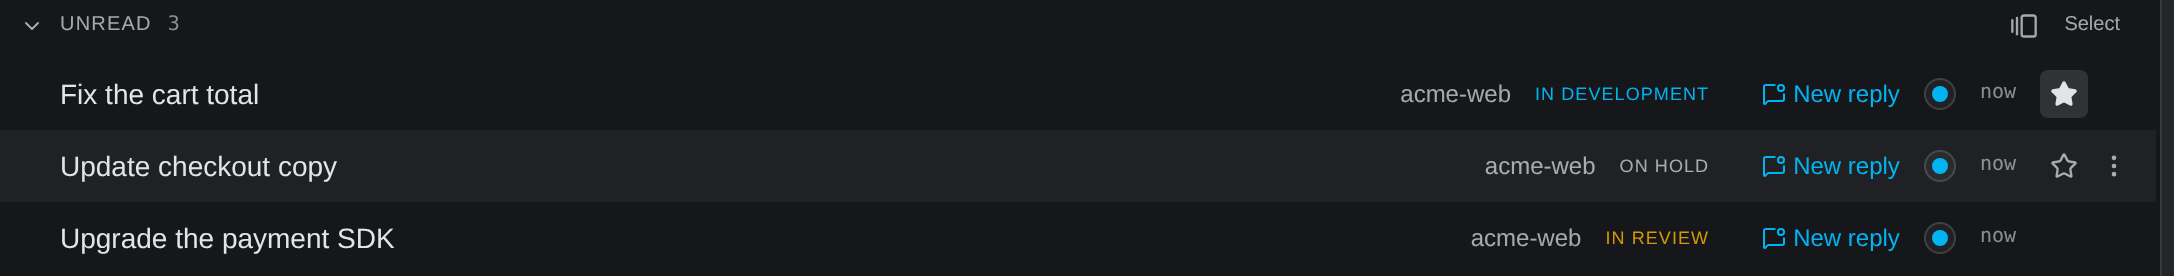
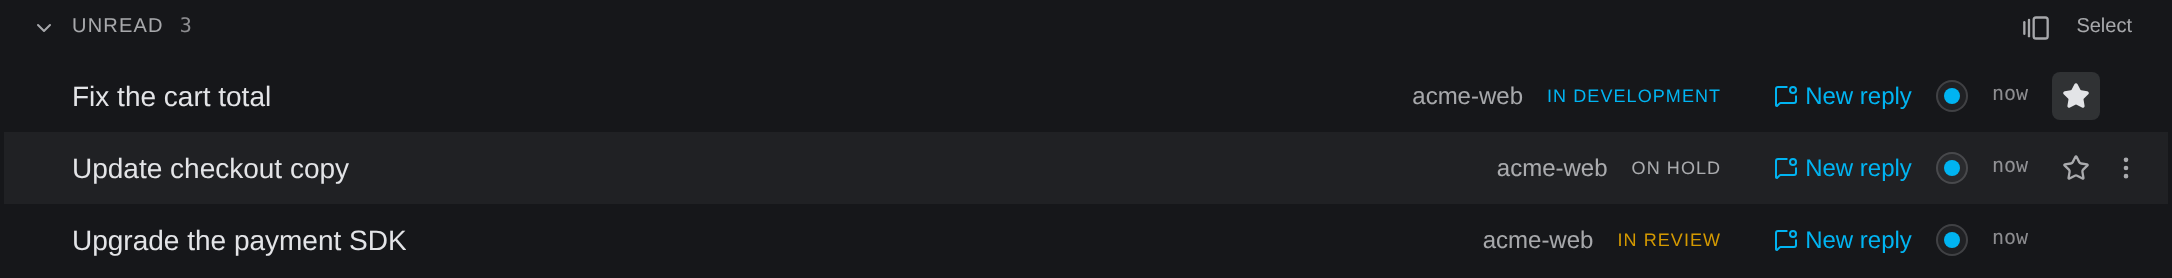
docs(kepler): tighten four 0.24.0 figures; Defaults figure on Agent Settings
- Recaptured task row, group options, usage indicators (whole composer
  in frame) and Quick look (Open as panel ringed).
- The Defaults figure now sits with Defaults on Agent Settings; Task
  Settings keeps the pointer.
- Dictation vocabulary: the page no longer names a "Words" heading the
  app does not show.
- The agent list alt names the agents in the order the list shows them.

diff --git a/kepler/agent-sessions.md b/kepler/agent-sessions.md
@@ -214,7 +214,7 @@ If 2 or more accounts are signed in, the **Agent** list shows one row per accoun
 
 <figure style="text-align:center">
   <a href="/wp-content/uploads/account-multiple-selector-oct-2026-v4@2x.png" target="_blank" rel="noopener noreferrer">
-    <img src="/wp-content/uploads/account-multiple-selector-oct-2026-v4@2x.png" class="help-center-img img-bordered" alt="The Agent list open in the New task composer, with Search options at the top. Under a Claude Code heading sit two account rows, CLI with the login alex.lee@example.com and an Acme badge (checked) and Personal, then Codex CLI, GitHub Copilot CLI and Auggie CLI (each Not signed in), OpenCode and Pi, with more agents further down, above Add another Claude Code account and Install another agent.">
+    <img src="/wp-content/uploads/account-multiple-selector-oct-2026-v4@2x.png" class="help-center-img img-bordered" alt="The Agent list open in the New task composer, with Search options at the top. Under a Claude Code heading sit two account rows, CLI with the login alex.lee@example.com and an Acme badge (checked) and Personal, then Codex CLI, GitHub Copilot CLI, OpenCode, Pi and Auggie CLI, three of them Not signed in, with more agents further down, above Add another Claude Code account and Install another agent.">
   </a>
   <figcaption style="text-align:center; color:#888">The Agent list, with one row per account and Add another Claude Code account.</figcaption>
 </figure>
@@ -963,7 +963,7 @@ Kepler shows 2 usage readouts, and they measure different things.
 
 <figure style="text-align:center">
   <a href="/wp-content/uploads/usage-indicators-oct-2026-v4@2x.png" target="_blank" rel="noopener noreferrer">
-    <img src="/wp-content/uploads/usage-indicators-oct-2026-v4@2x.png" class="help-center-img img-bordered" alt="The Context window card open above the composer's context ring, which sits between the Agent settings pill (Docs Model, Build) and Send: 68%, with 136K tokens Used, 64K Available and 200K Total, and the Estimated cost at API rates, <$1.">
+    <img src="/wp-content/uploads/usage-indicators-oct-2026-v4@2x.png" class="help-center-img img-bordered" alt="The session composer, from Type a message... with its attach and microphone buttons to the Agent settings pill (Docs Model, Build), the context ring and Send, with the Context window card open above the ring. The card reads 68%, 136K tokens Used, 64K Available and 200K Total, and the Estimated cost at API rates, <$1.">
   </a>
   <figcaption style="text-align:center; color:#888">The Context window card, from the context ring.</figcaption>
 </figure>

diff --git a/kepler/settings-agents.md b/kepler/settings-agents.md
@@ -40,7 +40,14 @@ Use **Settings → Agents** to choose how new sessions start, to install, update
 | **New Ask Kepler chats start with** | The agent that new [Ask Kepler](/kepler/ask-kepler) chats start with |
 | **New sessions start in** | Whether new sessions run in **Chat** or **Terminal**, for every agent. See [Default mode for new sessions](#default-mode-for-new-sessions) |
 
-Each of the first two is an agent-settings pill, like the one in the composer: pick the agent and account, and optionally an [agent preset](#agent-presets), a model, and other options. Kepler saves each pick as you make it. An [Action](/kepler/actions) uses **New sessions start with** unless it names an agent of its own.
+<figure style="text-align:center">
+  <a href="/wp-content/uploads/new-sessions-start-with-oct-2026-v6@2x.png" target="_blank" rel="noopener noreferrer">
+    <img src="/wp-content/uploads/new-sessions-start-with-oct-2026-v6@2x.png" class="help-center-img img-bordered" alt="The Defaults section of Settings › Agents: New sessions start with and New Ask Kepler chats start with both set to Claude Code CLI (alex.lee@example.com · Acme), each with its caption and its Start each session (or chat) on the agent you used last checkbox ticked. Below them, New sessions start in has Chat chosen over Terminal, with the note that it is the default for every agent and an agent's page can set its own.">
+  </a>
+  <figcaption style="text-align:center; color:#888">The Defaults section of Settings → Agents.</figcaption>
+</figure>
+
+**New sessions start with** and **New Ask Kepler chats start with** are agent-settings pills, like the one in the composer: pick the agent and account, and optionally an [agent preset](#agent-presets), a model, and other options. Kepler saves each pick as you make it. An [Action](/kepler/actions) uses **New sessions start with** unless it names an agent of its own.
 
 Below each pill, **Start each session on the agent you used last** and **Start each chat on the agent you used last** are on by default. Your first session or chat uses the pill's agent, and each later one starts on your last pick. To always start on the pill's agent, clear the box.
 

diff --git a/kepler/voice-input.md b/kepler/voice-input.md
@@ -78,10 +78,11 @@ To change the **Speech model**, **Dictation mode**, or **Dictation language**, r
 
 Qwen3-ASR learns how you spell words it gets wrong. When you fix a single dictated word in the prompt before you send it, Kepler notes the fix. After you make the same fix in 2 sends, a notice suggests the word, and **Review** opens the **Vocabulary** page. Dictation uses a suggested word only after you approve it.
 
-**Vocabulary**, in **Settings → Voice**, shows how many words dictation knows. Click **Manage** to open the **Vocabulary** page. **Manage** works only while a Qwen3-ASR model dictates. The page lists the words in 2 groups:
+**Vocabulary**, in **Settings → Voice**, shows how many words dictation knows. Click **Manage** to open the **Vocabulary** page. **Manage** works only while a Qwen3-ASR model dictates. On the page:
 
-- **Suggested words**: each shows what Qwen3-ASR heard, with **Approve** and **Dismiss**. A dismissed fix is never suggested again.
-- **Words**: the words you approved and the words you added. Each has a remove button. Type in **Add a word** and click **Add** to add one yourself. **Forget learned words…** removes every learned, suggested, and added word on this device.
+- **Suggested words** each show what Qwen3-ASR heard, with **Approve** and **Dismiss**. A dismissed fix is never suggested again.
+- Below them, the words you approved and the words you added each have a remove button. To add a word yourself, type it in **Add a word** and click **Add**.
+- **Forget learned words…** removes every learned, suggested, and added word on this device.
 
 Kepler stores only the words, on this device only, and keeps them after you sign out.
 

diff --git a/kepler/settings-tasks.md b/kepler/settings-tasks.md
@@ -29,13 +29,6 @@ Use **Settings → Tasks** to choose how new tasks start, where tasks open, and 
 
 **New tasks** shows the agent new sessions start with. To change it, click **Change in Agents**, which opens [Defaults](/kepler/settings-agents#defaults) in **Settings → Agents**. There you also choose the agent Ask Kepler chats start with, and whether new sessions start in **Chat** or **Terminal**. An [Action](/kepler/actions) uses the default agent unless it names an agent of its own.
 
-<figure style="text-align:center">
-  <a href="/wp-content/uploads/new-sessions-start-with-oct-2026-v6@2x.png" target="_blank" rel="noopener noreferrer">
-    <img src="/wp-content/uploads/new-sessions-start-with-oct-2026-v6@2x.png" class="help-center-img img-bordered" alt="The Defaults section of Settings › Agents: New sessions start with and New Ask Kepler chats start with both set to Claude Code CLI (alex.lee@example.com · Acme), each with its caption and its Start each session (or chat) on the agent you used last checkbox ticked. Below them, New sessions start in has Chat chosen over Terminal, with the note that it is the default for every agent and an agent's page can set its own.">
-  </a>
-  <figcaption style="text-align:center; color:#888">The Defaults section of Settings → Agents.</figcaption>
-</figure>
-
 ### Where new tasks make changes
 
 **Where new tasks make changes** sets what a repository starts on when you attach it to a new task in the **New task** composer. Pick one of these options from its dropdown:

diff --git a/kepler/kepler-manage-agents-across-accounts-and-ssh-hosts.md b/kepler/kepler-manage-agents-across-accounts-and-ssh-hosts.md
@@ -77,7 +77,7 @@ To add an account without leaving the list, click **Add another *agent* account*
 
 <figure style="text-align:center">
   <a href="/wp-content/uploads/account-multiple-selector-oct-2026-v4@2x.png" target="_blank" rel="noopener noreferrer">
-    <img src="/wp-content/uploads/account-multiple-selector-oct-2026-v4@2x.png" class="help-center-img img-bordered" alt="The Agent list open in the New task composer, with Search options at the top. Under a Claude Code heading sit two account rows, CLI with the login alex.lee@example.com and an Acme badge (checked) and Personal, then Codex CLI, GitHub Copilot CLI and Auggie CLI (each Not signed in), OpenCode and Pi, with more agents further down, above Add another Claude Code account and Install another agent.">
+    <img src="/wp-content/uploads/account-multiple-selector-oct-2026-v4@2x.png" class="help-center-img img-bordered" alt="The Agent list open in the New task composer, with Search options at the top. Under a Claude Code heading sit two account rows, CLI with the login alex.lee@example.com and an Acme badge (checked) and Personal, then Codex CLI, GitHub Copilot CLI, OpenCode, Pi and Auggie CLI, three of them Not signed in, with more agents further down, above Add another Claude Code account and Install another agent.">
   </a>
   <figcaption style="text-align:center; color:#888">The Agent list, with 1 row per account and Add another Claude Code account.</figcaption>
 </figure>

diff --git a/kepler/kepler-interface.md b/kepler/kepler-interface.md
@@ -518,7 +518,7 @@ If you start a task from **New task** while you're on the list, the new task ope
 
 <figure style="text-align:center">
   <a href="/wp-content/uploads/quick-look-nov-2026-v2@2x.png" target="_blank" rel="noopener noreferrer">
-    <img src="/wp-content/uploads/quick-look-nov-2026-v2@2x.png" class="help-center-img img-bordered" alt="The Dashboard with Fix the cart total open as a panel, dimmed behind a Quick look card of Update checkout copy whose header holds Open as panel beside Terminal and Close. The card shows the task's branch, its session and its Changes column, while the task list stays on the left.">
+    <img src="/wp-content/uploads/quick-look-nov-2026-v2@2x.png" class="help-center-img img-bordered" alt="The Dashboard with Fix the cart total open as a panel, dimmed behind a Quick look card of Update checkout copy whose header holds Open as panel, ringed, beside Terminal and Close. The card shows the task's branch, its session and its Changes column, while the task list stays on the left.">
   </a>
   <figcaption style="text-align:center; color:#888">A task in Quick look, over the open panel.</figcaption>
 </figure>
